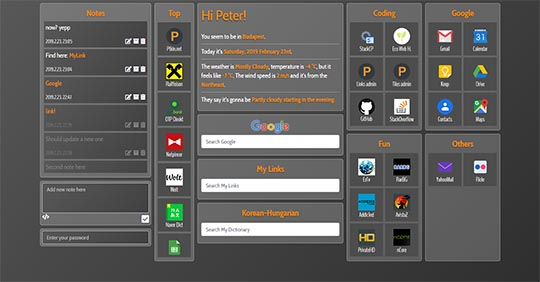
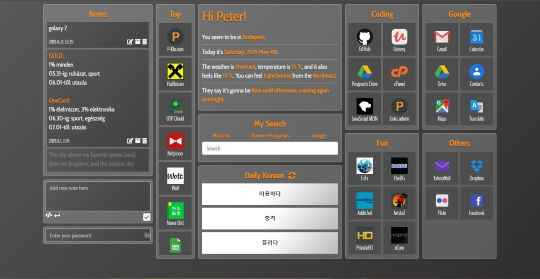
Updated readme and screenshot

Changed region(s): [[0.0593, 0.0, 0.9481, 0.9462]]

diff --git a/README.md b/README.md
@@ -17,9 +17,12 @@ I got a bit bored of always looking for my favorite bookmarks and of going to di
     - scrollable tile boxes for different categories
     - cool hover effects for the tiles
     - links served from a database
-- **Search boxes**:
-    - Google search
+- **Search box options**:
     - search in all my bookmarks (from database)
     - Korean-Hungarian dictionary based on my own word list
+    - Google search
+- **Daily Korean**:   
+    - shows three cards with random Korean words from my word list
+    - cards can be flipped to show Hungarian on mouseover
 
 *I didn't really want to complicate my life with lots of `webkits` so some features I implemented are only working in Chrome. However I only use Chrome so I'm fine with that.*
